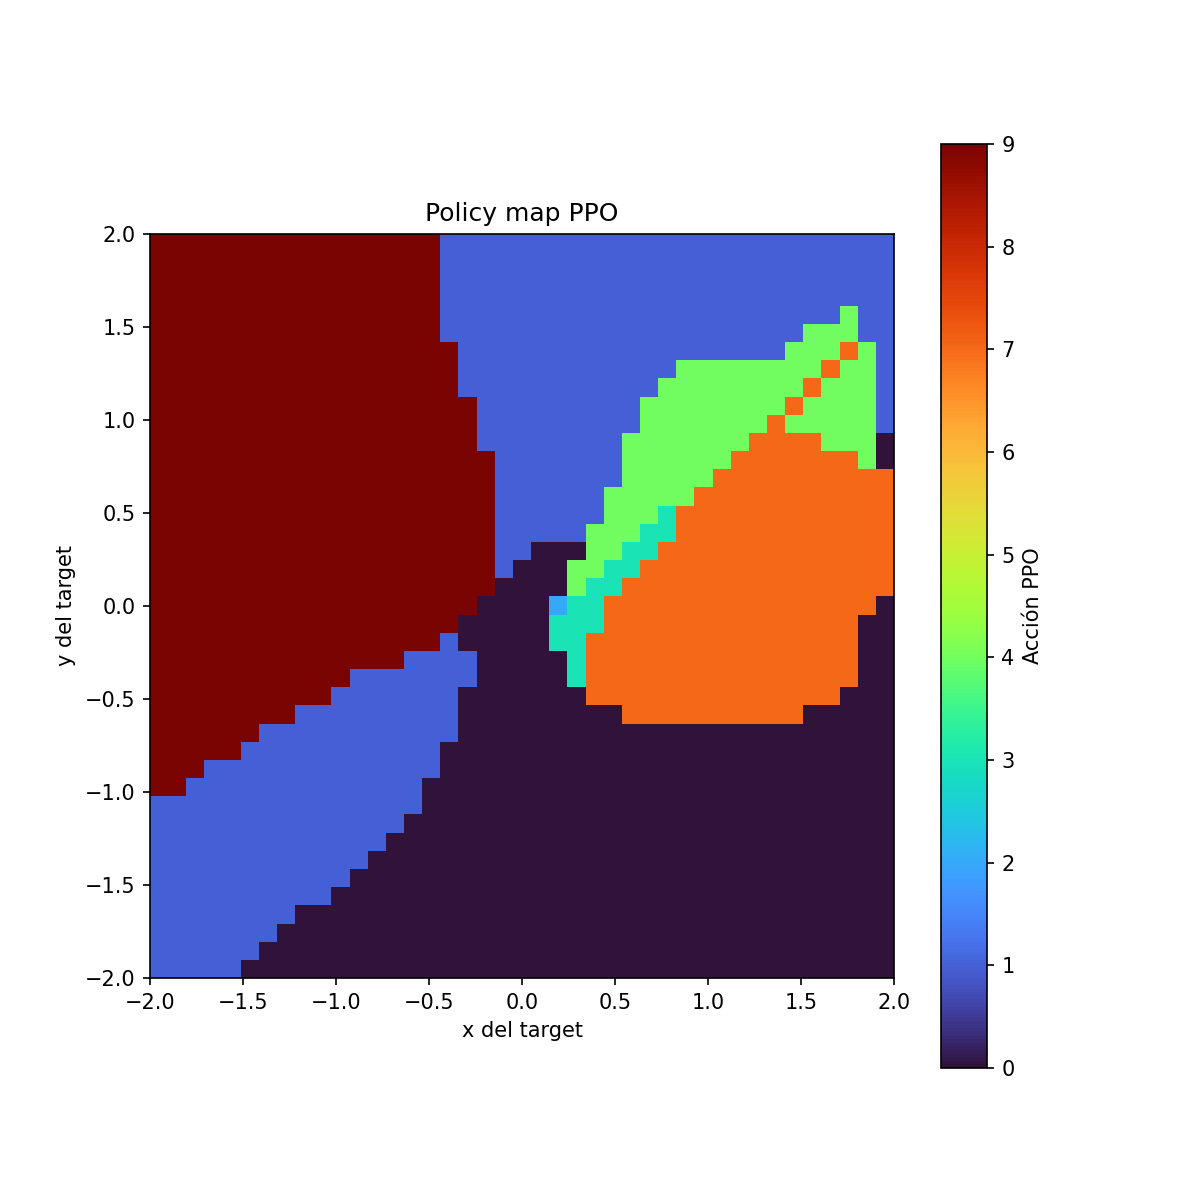
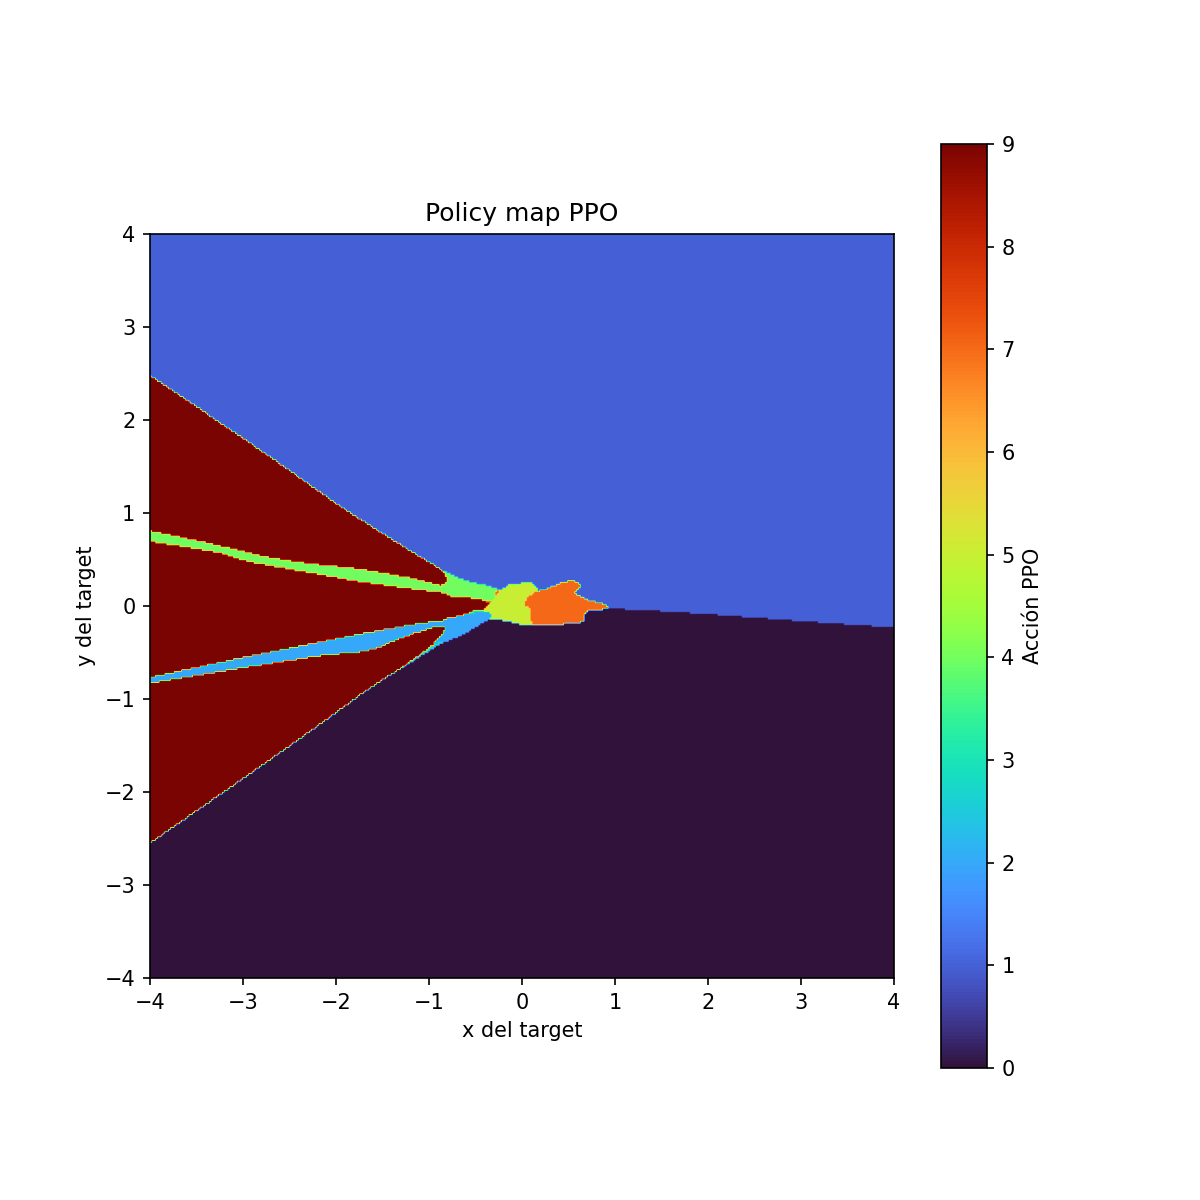
nuevos cambios

diff --git a/enviroment.py b/enviroment.py
@@ -212,20 +212,36 @@ class SpiderEnv(gym.Env):
         )
 
         self.commands = {
-            0: (227,[0.0667, -0.0052, np.deg2rad(32.72)]),  # Pivot Left (OK)
-            1: (228,[0.0667,  0.0052, -np.deg2rad(32.72)]), # Pivot Right (CORREGIDO: Signo menos)
+            0: (227,[0.00589, -0.00468, -np.deg2rad(31.2)]),  # Pivot Left 
+            1: (228,[0.00002, 0.00490, np.deg2rad(27.3)]), # Pivot Right 
 
-            2: (251,[0.0776, -0.0074, np.deg2rad(10.94)]),  # FwdSteer Left (OK)
-            3: (252,[0.0773,  0.0,    np.deg2rad(4.44)]),   # Fwd (Drift a la izquierda natural)
-            4: (253,[0.0748,  0.0064, -np.deg2rad(9.79)]),  # FwdSteer Right (CORREGIDO: Signo menos)
+            2: (251,[0.07877, -0.01080, -np.deg2rad(10.2283)]),  # FwdSteer Left (OK)
+            3: (252,[0.07160, -0.00625,    np.deg2rad(1.6188)]),   # Fwd (Drift a la izquierda natural)
+            4: (253,[0.06613, 0.01076, np.deg2rad(7.8102)]),  # FwdSteer Right 
 
-            5: (256,[-0.0603, 0.0025, np.deg2rad(5.81)]),   # BwdSteer Left (OK)
-            6: (258,[-0.0641, 0.002,  -0.03175]),           # BwdSteer Right (CORREGIDO: Signo menos)
+            5: (256,[-0.05835, 0.00319, -np.deg2rad(4.1511)]),   # BwdSteer Left (OK)
+            6: (258,[-0.06480, 0.00246,  np.deg2rad(10.2672)]),           # BwdSteer Right 
 
-            7: (262,[0.0893,  0.0,    0.0]),                # FastFwd (OK)
-            8: (266,[-0.0588, 0.0,    0.0]),                # Bwd (OK)
-            9: (267,[-0.715,  0.0,    0.0]),                # FastBwd (OK)
+            7: (262,[0.10923, -0.02321, np.deg2rad(3.3947)]),                # FastFwd (OK)
+            8: (266,[-0.05726, 0.00327, -np.deg2rad(3.7919)]),                # Bwd (OK)
+            9: (267,[-0.08296, -0.00177, -np.deg2rad(4.8641)]),                # FastBwd (OK)
+            10: (261,[0.07163, -0.01131, -np.deg2rad(2.1642)]),  # FastFwdSteer Left
+            11: (263,[0.07658, -0.00776, np.deg2rad(7.7978)]),  # FastFwdSteer Right
         }
+
+
+# Pivot_Left, 227, 5, 0.00589, -0.00468, 31.2
+# Pivot_Right, 228, 5, 0.00002, 0.00490, -27.3
+# FwdSteer_Left, 251, 5, 0.07877, -0.01080, 10.2283
+# Fwd, 252, 5, 0.07160, -0.00625, 1.6188
+# FwdSteer_Right, 253, 5, 0.06613, 0.01076, -7.8102
+# BwdSteer_Left, 256, 5, -0.05835, 0.00319, -4.1511
+# BwdSteer_Right, 258, 5, -0.06480, 0.00246, 10.2672
+# FastFwd, 262, 5, 0.10923, -0.02321, -3.3947
+# Bwd, 266, 5, -0.05726, 0.00327, -3.7919
+# FastBwd, 267, 5, -0.08296, -0.00177, 4.8641
+# FastFwdSteer_Left, 261, 5, 0.07163, -0.01131, 2.1642
+# FastFwdSteer_Right, 263, 5, 0.07658, -0.00776, -7.7978
         self.action_space = gym.spaces.Discrete(len(self.commands))
 
         if target_init_pos is None:
@@ -251,6 +267,7 @@ class SpiderEnv(gym.Env):
         self.clock = None
 
         self.scale = (self.window_size * 0.4) / (self.world_size / 2.0)
+        self.noise_ratio = 0.05  # 5% de ruido gaussiano relativo al movimiento
 
     def angle_misalignment(self, target_vec):
         d = np.linalg.norm(target_vec)
@@ -280,7 +297,8 @@ class SpiderEnv(gym.Env):
             self.target_pos = np.array(options["target_init_pos"], dtype=np.float64)
 
         self.last_distance = float(np.linalg.norm(self.target_pos))
-        self.last_angle_error = self.angle_misalignment(self.target_pos)
+        # Refrescamos la orientación inicial para que el shaping use el valor actual
+        self.last_angle = self.angle_misalignment(self.target_pos)
         obs = self.target_pos.astype(np.float32)
         info = {}
         return obs, info
@@ -299,9 +317,15 @@ class SpiderEnv(gym.Env):
         t_new = R @ (t - np.array([dx, dy]))
         return t_new
 
+    def _apply_movement_noise(self, movement):
+        movement = np.asarray(movement, dtype=np.float64)
+        sigma = np.abs(movement) * self.noise_ratio
+        noise = np.random.normal(loc=0.0, scale=sigma)
+        return movement + noise
+
     def step(self, action):
         command, movement = self.commands[action]
-        dx, dy, dtheta = movement
+        dx, dy, dtheta = self._apply_movement_noise(movement)
         self.target_pos = self.calc_new_target(dtheta, dx, dy)
         self.step_count += 1
 
@@ -313,7 +337,7 @@ class SpiderEnv(gym.Env):
         ori_improvement = self.last_angle - new_angle
         ori_improvement /= (np.pi / 2.0)
 
-        reward = self.last_distance - dist - 0.1 #+ 0.2 * ori_improvement
+        reward = self.last_distance - dist - 0.1 + 0.2 * ori_improvement
 
         self.last_distance = dist
         self.last_angle = new_angle

diff --git a/plot_points.py b/plot_points.py
@@ -6,10 +6,10 @@ import matplotlib.pyplot as plt
 from enviroment import SpiderEnv
 
 
-model = PPO.load("/home/ciror/Desktop/rl/tps/tpfinal/tpFInalRLSpider/models_spider/ppo_spider.zip")
+model = PPO.load("/home/facuvulcano/tpFInalRLSpider/models_spider/run_20251124_160248/ppo_spider_200000_steps.zip")
 env = SpiderEnv(render_mode=None)
-mapX = np.arange(-2, 2.01, 0.1)
-mapY = np.arange(-2, 2.01, 0.1)
+mapX = np.arange(-4, 4.01, 0.02)
+mapY = np.arange(-4, 4.01, 0.02)
 policy_map = np.zeros((len(mapY), len(mapX)), dtype=int)
 
 for iy, y in enumerate(mapY):
@@ -20,7 +20,7 @@ for iy, y in enumerate(mapY):
 
 
 plt.figure(figsize=(8, 8))
-plt.imshow(policy_map, extent=[-2, 2, -2, 2], origin="lower",cmap="turbo")
+plt.imshow(policy_map, extent=[-4, 4, -4, 4], origin="lower",cmap="turbo")
 plt.colorbar(label="Acción PPO")
 plt.xlabel("x del target")
 plt.ylabel("y del target")

diff --git a/spider.py b/spider.py
@@ -21,7 +21,7 @@ def make_env(seed: int = 0, **env_kwargs):
 
 def main():
     # ---------- CONFIGURACIÓN ----------
-    total_timesteps = 1_000_000 # Dejamos 200k para probar rapido si funciona     
+    total_timesteps = 500_000   
     n_envs = 4
     run_name = datetime.now().strftime("run_%Y%m%d_%H%M%S")  # id único por ejecución
     log_dir = os.path.join("logs_spider", run_name)
